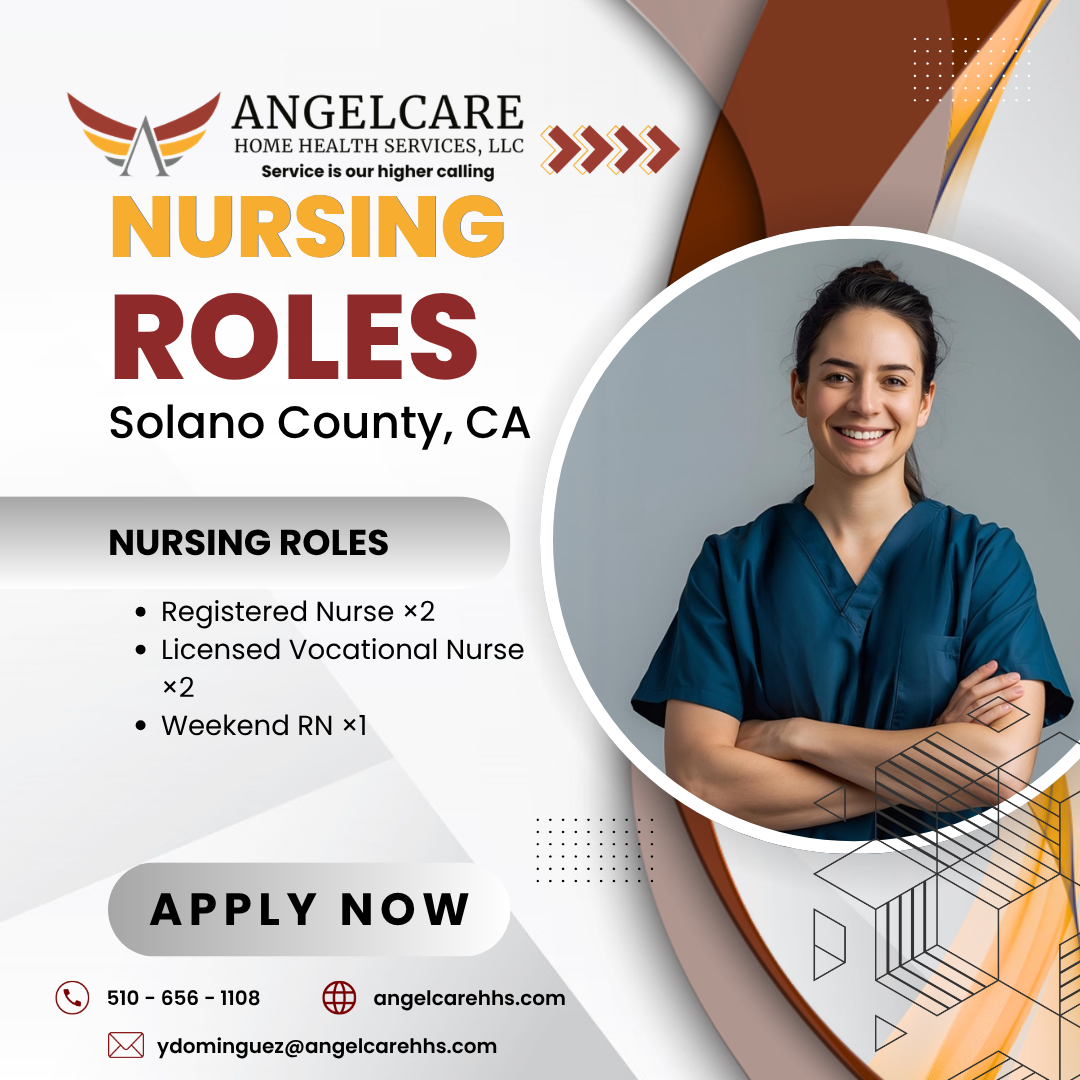
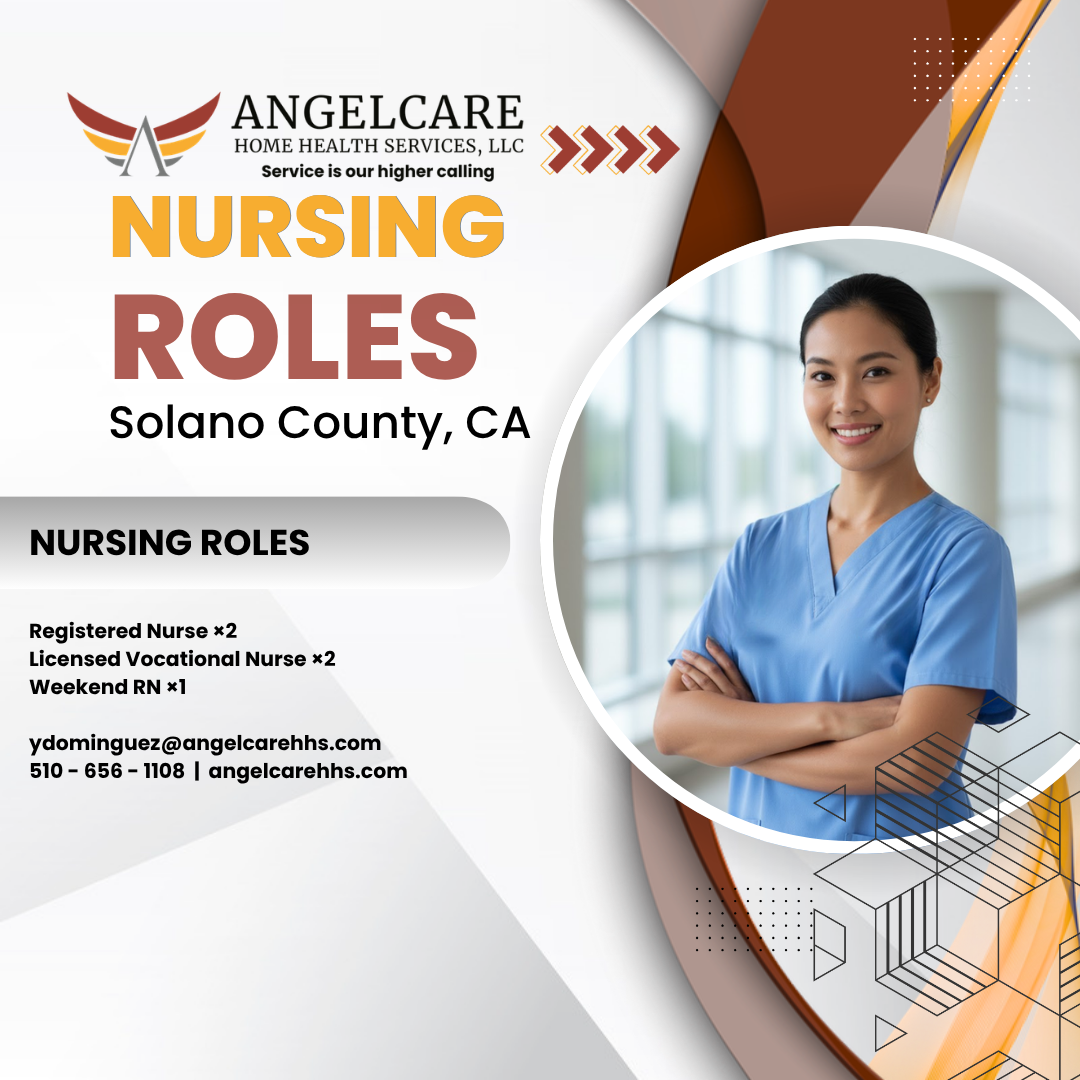
W22 — different photos per slide (rebuild S2/S3/S4 from template pages 2-4)

diff --git a/docs/index.html b/docs/index.html
@@ -276,15 +276,15 @@ We value our team as much as our patients. If you're seeking a meaningful home h
   const innerLabels = ['Cover', 'Nursing Roles', 'Therapy Roles', 'Support + CTA'];
   const s1Links = [
     'https://www.canva.com/d/jO0j665-B3juqTl',
-    'https://www.canva.com/d/Mu5Hhh1Xh7aQnwT',
-    'https://www.canva.com/d/SvII53-8U6tP4L2',
-    'https://www.canva.com/d/CvL9Kedpurd6Pe8'
+    'https://www.canva.com/d/rnMQ4CKiPn9FhX2',
+    'https://www.canva.com/d/wQ-EiKCcbteDpdy',
+    'https://www.canva.com/d/9WoVL14S7DZODOC'
   ];
   const s2Links = [
     'https://www.canva.com/d/Yoy32ESjrJ2Kzhp',
-    'https://www.canva.com/d/ayBnp-MpK2kOHdR',
-    'https://www.canva.com/d/987YU4YPLq9BPkW',
-    'https://www.canva.com/d/5Xmm0PgxLx9BsRQ'
+    'https://www.canva.com/d/RCpJ0NrRINsHMFJ',
+    'https://www.canva.com/d/JefwtSnDh5Xwb3n',
+    'https://www.canva.com/d/j8Ig8TnXayOdzyd'
   ];
 
   function innerMove(post, dir) { innerGoTo(post, innerState[post] + dir); }
